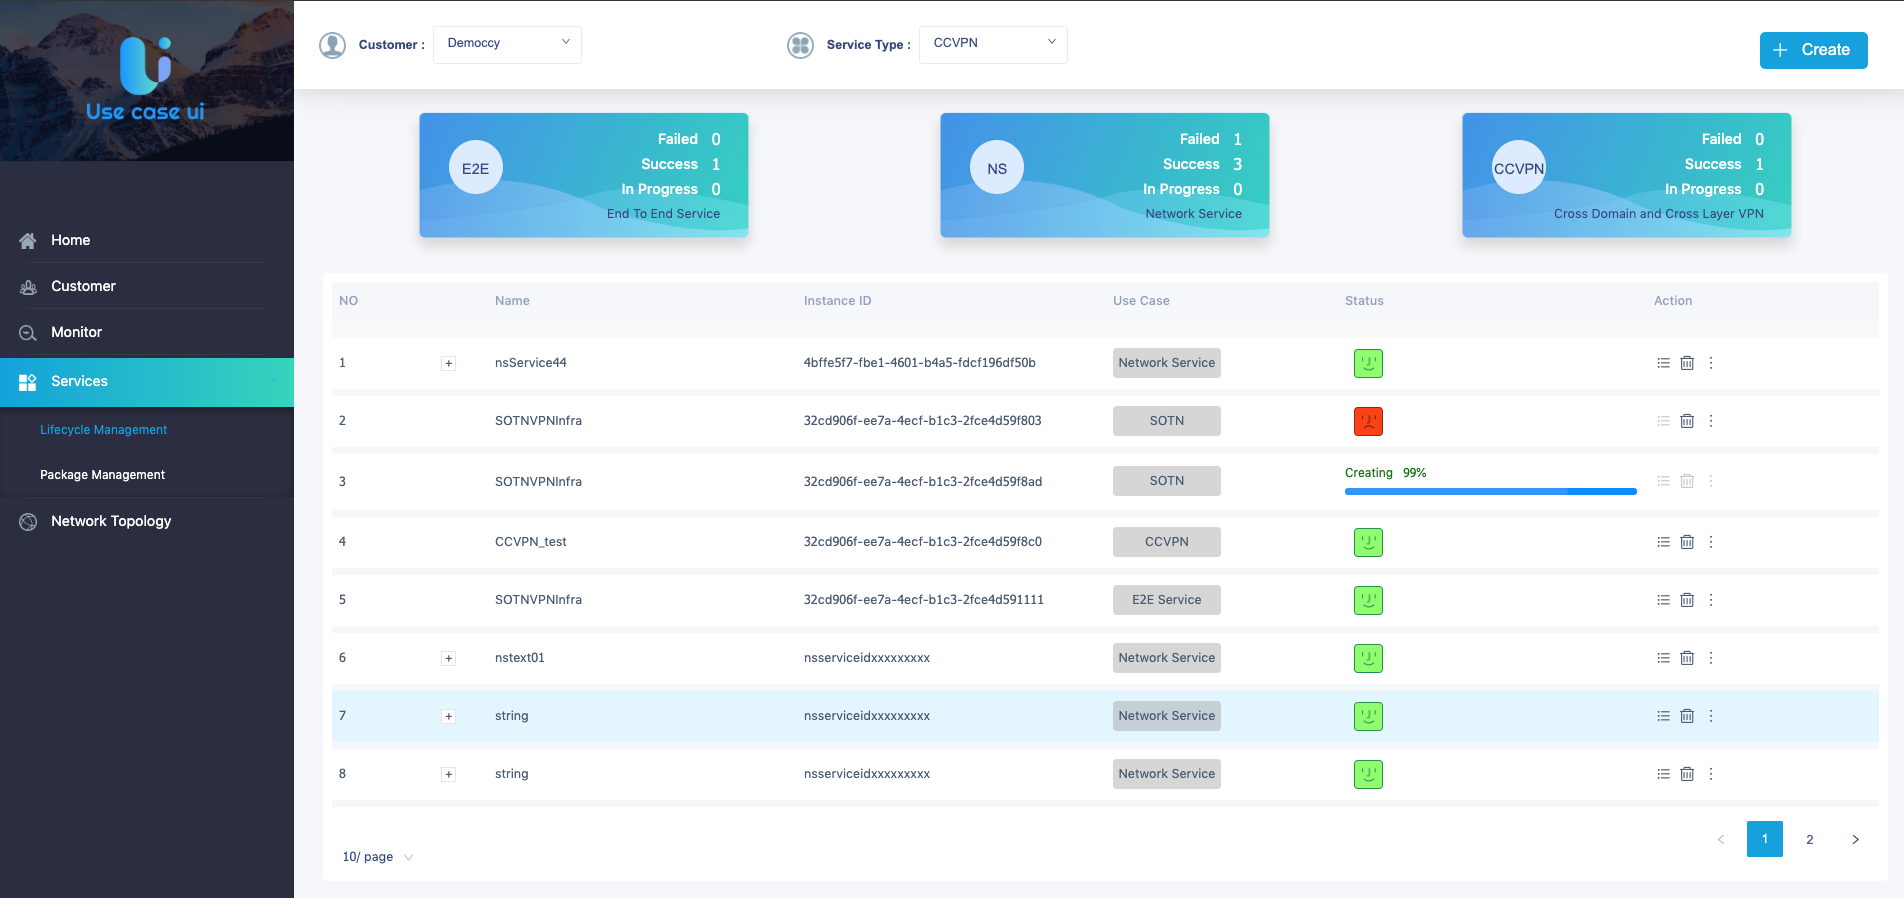
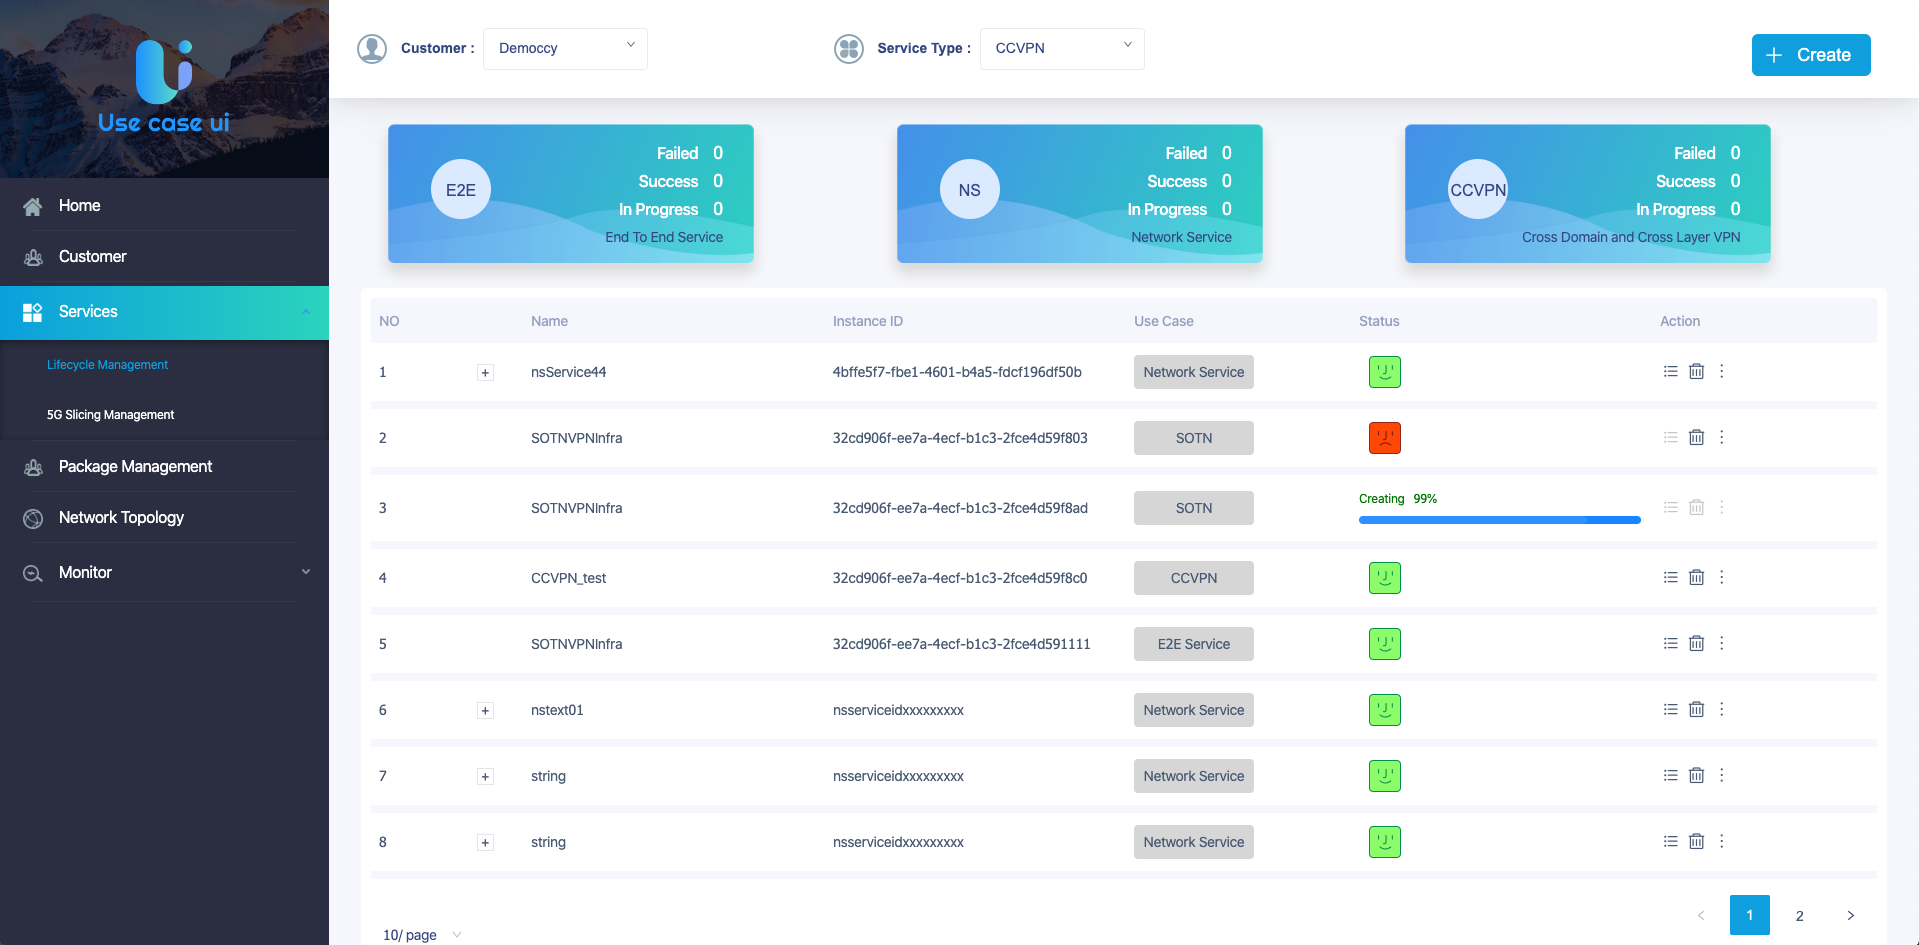
feat: add user-guide of F release
Issue-ID: USECASEUI-374

diff --git a/docs/platform/installation/user-guide/uui-guide.rst b/docs/platform/installation/user-guide/uui-guide.rst
@@ -49,11 +49,9 @@ Usecase-UI project consists of 5 modules which are *Home*, *Cusomer*, *Monitor*,
    :width: 7.97047in
    :height: 3.63208in
 
-*4.3. Monitor Module*
+*4.3. Services Module*
 
-*4.4. Services Module*
-
-This module consists of two parts. One is Lifecycle Management, the other is Package Management.
+This module consists of two parts. One is Lifecycle Management, the other is 5G Slicing Management.
 
 * Lifecycle Management
 
@@ -63,7 +61,23 @@ This module consists of two parts. One is Lifecycle Management, the other is Pac
    :width: 7.97047in
    :height: 3.63208in
 
-* Package Management
+* 5G Slicing Management
+
+This module consists of two parts. The first part is the slicing task management which is responsible for presenting the tasks created in CSMF portal and processing those tasks. The second part is slicing resource management which is responsible for listing all the NS, NSI and NSSI resource and showing the relation between them.
+
+|Slicing Task Management|
+
+.. |Slicing Task Management| image:: ../../images/slicing-task.png
+   :width: 7.97047in
+   :height: 3.63208in
+
+|Slicing Resource Management|
+
+.. |Slicing Resource Management| image:: ../../images/slicing-res.png
+   :width: 7.97047in
+   :height: 3.63208in
+
+*4.4. Package Management
 
 |package|
 
@@ -73,3 +87,12 @@ This module consists of two parts. One is Lifecycle Management, the other is Pac
 
 *4.5. Network Topology Module*
 
+*4.6. Monitor Module*
+
+This module is responsible for presenting all kinds of monitoring information. In Frankfurt Release, 5G Slicing monitoring data can be present.   
+
+|Slicing Monitor|
+
+.. |Slicing Monitor| image:: ../../images/slicing-monitor.png
+   :width: 7.97047in
+   :height: 3.63208in
